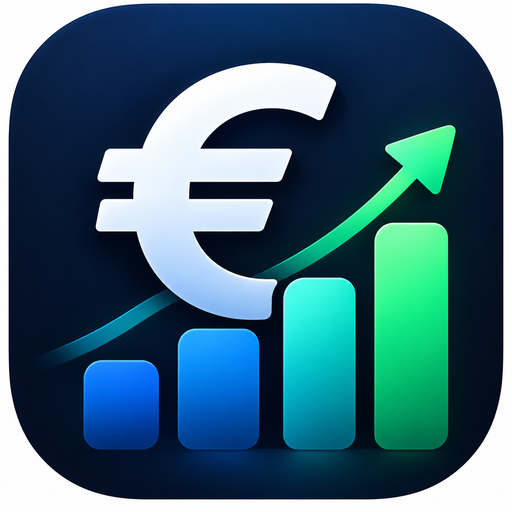
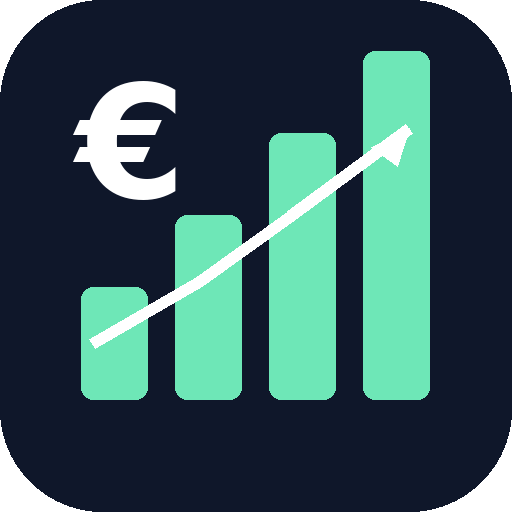
Add files via upload

diff --git a/index.html b/index.html
@@ -37,7 +37,7 @@ body.dark .secondary{background:#252d43;color:#f2f4f7}
 body.dark .settings{color:#f2f4f7}
 body.dark .bar{background:#30384d}
 </style>
-</head><body><div class="app">
+<link rel="apple-touch-icon" sizes="180x180" href="apple-touch-icon.png?v=5"><link rel="icon" type="image/png" sizes="512x512" href="icon-512.png?v=5"></head><body><div class="app">
 <header><div><h1>Mis Finanzas</h1><div class="sub" id="month"></div></div><div><button class="settings" id="themeBtn" onclick="toggleDark()" aria-label="Cambiar modo oscuro">🌙</button><button class="settings" onclick="openSettings()">⚙</button></div></header>
 <div class="grid"><div class="card"><div class="small">Ingresos</div><div id="income" class="num green">0 €</div></div><div class="card"><div class="small">Gastos</div><div id="expense" class="num red">0 €</div></div><div class="card"><div class="small">Ahorro</div><div id="saving" class="num">0 €</div></div></div>
 
